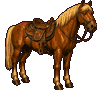
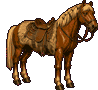
Point & click : tenues du lore de Skyrim, personnages et décor animés par sprites (héros en 4 temps, états repos/parole/marche, rivière, roues, mammouth, flammes, oiseaux, fumée, dragon à 4 poses)

diff --git a/js/pointclick/data/sheets.js b/js/pointclick/data/sheets.js
@@ -1,11 +1,30 @@
-/* Sprites (assets/pointclick/spr/<fichier>.png, déjà à la taille du jeu : ils se dessinent à l'échelle de perspective) et objets d'inventaire. */
+/* Sprites (assets/pointclick/spr/<fichier>.png, déjà à la taille du jeu : ils se dessinent à l'échelle de perspective) et objets d'inventaire.
+   ANIM : animation par images, choisie selon l'état du personnage (idle = repos, talk = parle, walk = se déplace). `fps` = images par seconde. */
+const f = (n, files) => files.forEach(x => (SPR[n + '.' + x] = n + '_' + x));
 export const SPR = {
-  'hero.side': 'hero_side', 'hero.stride': 'hero_stride', 'hero.front': 'hero_front',
-  'merchant': 'merchant', 'merchant.bucket': 'merchant_bucket',
-  'guard': 'guard', 'hen': 'hen', 'bucket': 'bucket', 'honey': 'honey',
-  'dragon.up': 'dragon_up', 'dragon.down': 'dragon_down',
-  'horse': 'horse', 'horse.ride': 'horse_ride', 'carrot': 'carrot', 'cheese': 'cheese',
+  'hero.front': 'hero_front', 'bucket': 'bucket', 'honey': 'honey', 'merchant': 'merchant', 'merchant.bucket': 'merchant_bucket',
+  'guard': 'guard', 'hen': 'hen', 'horse': 'horse', 'horse.ride': 'horse_ride', 'carrot': 'carrot', 'cheese': 'cheese',
+  'dragon.up': 'dragon_up', 'dragon.down': 'dragon_down', 'dragon.mid1': 'dragon_mid1', 'dragon.mid2': 'dragon_mid2',
+  'bird.1': 'bird_1', 'bird.2': 'bird_2', 'bird.3': 'bird_3', 'puff': 'puff',
   'giant': 'giant', 'giant.swing': 'giant_swing', 'nazim': 'nazim',
   'blind.pot': 'blind_pot', 'blind.sack': 'blind_sack', 'blind.hat': 'blind_hat', 'lit.pot': 'lit_pot', 'lit.sack': 'lit_sack', 'lit.hat': 'lit_hat'
 };
+f('hero', ['walkA', 'walkP', 'walkB', 'stand', 'talk', 'idle2']); f('merchant', ['idle2', 'talk1', 'talk2']); f('guard', ['idle2', 'talk', 'walkA', 'walkB']);
+f('hen', ['peck', 'walk']); f('horse', ['idle2', 'walkA', 'walkB']); f('giant', ['idle2', 'talk', 'walkA', 'walkB']); f('nazim', ['idle2', 'talk']);
+f('blind', ['pot2', 'sack2', 'hat2']); f('lit', ['pot2', 'sack2', 'hat2']);
+
+export const ANIM = {
+  'merchant': { idle: ['merchant', 'merchant.idle2'], talk: ['merchant.talk1', 'merchant.talk2', 'merchant'], fps: { idle: 0.7, talk: 6 } },
+  'guard': { idle: ['guard', 'guard.idle2'], talk: ['guard', 'guard.talk'], walk: ['guard.walkA', 'guard', 'guard.walkB', 'guard'], fps: { idle: 0.5, talk: 6, walk: 5 } },
+  'hen': { idle: ['hen', 'hen.peck'], walk: ['hen.walk', 'hen'], fps: { idle: 1.1, walk: 6 } },
+  'horse': { idle: ['horse', 'horse.idle2'], walk: ['horse.walkA', 'horse', 'horse.walkB', 'horse'], fps: { idle: 0.5, walk: 5 } },
+  'giant': { idle: ['giant', 'giant.idle2'], talk: ['giant.talk', 'giant'], walk: ['giant.walkA', 'giant', 'giant.walkB', 'giant'], fps: { idle: 0.45, talk: 6, walk: 3 } },
+  'nazim': { idle: ['nazim', 'nazim.idle2'], talk: ['nazim.talk', 'nazim'], fps: { idle: 0.5, talk: 6 } },
+  'blind.pot': { idle: ['blind.pot', 'blind.pot2'], fps: { idle: 1.6 } }, 'blind.sack': { idle: ['blind.sack', 'blind.sack2'], fps: { idle: 1.6 } }, 'blind.hat': { idle: ['blind.hat', 'blind.hat2'], fps: { idle: 1.6 } },
+  'lit.pot': { idle: ['lit.pot', 'lit.pot2'], walk: ['lit.pot', 'lit.pot2'], fps: { idle: 5, walk: 6 } },
+  'lit.sack': { idle: ['lit.sack', 'lit.sack2'], walk: ['lit.sack', 'lit.sack2'], fps: { idle: 5, walk: 6 } },
+  'lit.hat': { idle: ['lit.hat', 'lit.hat2'], walk: ['lit.hat', 'lit.hat2'], fps: { idle: 5, walk: 6 } }
+};
+/* le héros : marche en 4 temps, debout de profil, face (repos / parole) */
+export const HERO = { walk: ['hero.walkA', 'hero.walkP', 'hero.walkB', 'hero.walkP'], stand: 'hero.stand', idleFront: ['hero.front', 'hero.idle2'], talk: ['hero.front', 'hero.talk'] };
 export const ITEMS = { bucket: { spr: 'bucket' }, honey: { spr: 'honey' }, carrot: { spr: 'carrot' }, cheese: { spr: 'cheese' } };

diff --git a/js/pointclick/scenes/rue.js b/js/pointclick/scenes/rue.js
@@ -21,13 +21,11 @@ export default {
   /* décor vivant : dragon qui vole, oiseaux, rivière, roue du moulin, mammouth qui respire, fleurs et herbes dans le vent */
   ambient: [
     { type: 'dragon', y: 8, period: 36, offset: 8, scale: 0.95, drop: 8 },
-    { type: 'birds', n: 5, y0: 16, y1: 80, speed: 12, seed: 4 },
-    { type: 'water', poly: [[395, 198], [420, 190], [450, 192], [470, 198], [470, 218], [450, 226], [420, 228], [400, 218]], amp: 1.4, seed: 2 },
-    { type: 'water', poly: [[330, 158], [352, 156], [385, 158], [392, 166], [360, 168], [335, 166]], amp: 1.0, seed: 9, glints: 8 },
-    { type: 'wheel', cx: 466, cy: 152, r: 12, speed: 0.9 },
-    { type: 'bob', rect: [388, 130, 418, 160], amp: 0.04, speed: 1.2 },
-    { type: 'sway', rect: [380, 226, 480, 268], amp: 1.8, speed: 1.6 },
-    { type: 'sway', rect: [270, 238, 380, 268], amp: 1.2, speed: 1.3, phase: 2 }
+    { type: 'flock', n: 5, y0: 16, y1: 80, speed: 12, seed: 4 },
+    { type: 'frames', id: 'rue_river1', fps: 2.2 }, { type: 'frames', id: 'rue_river2', fps: 2, offset: 0.4 },
+    { type: 'frames', id: 'rue_wheel', fps: 1.4, seq: [0, 1, 2, -1] },
+    { type: 'frames', id: 'rue_mammoth', fps: 0.7, seq: [-1, 0, 0, -1, 1, 1, 2, -1] },
+    { type: 'frames', id: 'rue_flowers', fps: 1.3 }, { type: 'frames', id: 'rue_grass', fps: 1.1, offset: 0.7 }
   ],
   ents: [
     { id: 'merchant', spr: 'merchant', x: 72, y: 214, hot: true, hit: [48, 160, 100, 190], at: [136, 238], z: -50 },

diff --git a/js/pointclick/scenes/mill.js b/js/pointclick/scenes/mill.js
@@ -21,12 +21,11 @@ export default {
   ],
   ambient: [
     { type: 'dragon', y: 10, period: 40, offset: 14, scale: 0.9, drop: 6 },
-    { type: 'birds', n: 4, y0: 20, y1: 90, speed: 11, seed: 8 },
-    { type: 'wheel', cx: 162, cy: 150, r: 30, speed: 0.8 },
-    { type: 'water', poly: [[300, 190], [345, 182], [420, 180], [480, 192], [480, 228], [440, 224], [395, 214], [345, 206], [310, 200]], amp: 1.4, seed: 6, glints: 16 },
-    { type: 'smoke', x: 103, y: 48, h: 30, wind: 12, n: 9 },
-    { type: 'sway', rect: [0, 190, 116, 214], amp: 1.0, speed: 1.4 },
-    { type: 'sway', rect: [100, 236, 300, 268], amp: 1.0, speed: 1.2, phase: 1 }
+    { type: 'flock', n: 4, y0: 20, y1: 90, speed: 11, seed: 8 },
+    { type: 'frames', id: 'mill_wheel', fps: 1.6, seq: [0, 1, 2, -1] },
+    { type: 'frames', id: 'mill_river', fps: 2.2 },
+    { type: 'puffs', x: 103, y: 50, h: 32, wind: 12, n: 7 },
+    { type: 'frames', id: 'mill_garden', fps: 1.2 }, { type: 'frames', id: 'mill_grass', fps: 1.1, offset: 0.8 }
   ],
   ents: [
     { id: 'horse', spr: 'horse', x: 252, y: 226, hot: true, at: [214, 236] },

diff --git a/js/pointclick/scenes/meadow.js b/js/pointclick/scenes/meadow.js
@@ -18,12 +18,11 @@ export default {
   ],
   ambient: [
     { type: 'dragon', y: 12, period: 46, offset: 22, scale: 0.9, drop: 6 },
-    { type: 'birds', n: 4, y0: 14, y1: 80, speed: 12, seed: 11 },
+    { type: 'flock', n: 4, y0: 14, y1: 80, speed: 12, seed: 11 },
     { type: 'orbit', spr: 'bucket', id: 'satellite', scale: 0.4, y: 30, arc: 10, period: 64, offset: 30, spin: 1.1 },
-    { type: 'smoke', x: 139, y: 214, h: 42, wind: 8, n: 11 },
-    { type: 'glow', x: 139, y: 222, r: 26 },
-    { type: 'sway', rect: [0, 236, 480, 268], amp: 1.1, speed: 1.3 },
-    { type: 'sway', rect: [230, 140, 480, 184], amp: 0.8, speed: 1.0, phase: 2 }
+    { type: 'frames', id: 'meadow_fire', fps: 7, seq: [0, 1, 2, 1] },
+    { type: 'puffs', x: 140, y: 212, h: 44, wind: 8, n: 8 },
+    { type: 'frames', id: 'meadow_grass', fps: 1.1 }
   ],
   ents: [
     { id: 'giant', spr: 'giant', x: GIANT[0], y: GIANT[1], scale: 0.78, hot: true, at: [GIANT[0] - 52, GIANT[1] + 8] },

diff --git a/easter eggs/pointclick/ETUDE.md b/easter eggs/pointclick/ETUDE.md
@@ -387,3 +387,12 @@ Chaque scène atteinte est mémorisée (hors sauvegarde, elle survit à « Nouve
 par chapitre atteint : il repart au début de la scène avec l'état attendu (inventaire et drapeaux). Ajouter une scène : créer `scenes/<id>.js`,
 ajouter une ligne dans `scenes/index.js` (`CHAPTERS`, avec son état d'entrée) et les clés `ch.<id>` dans `lang/fr.js` et `lang/en.js`.
 La sauvegarde automatique (scène, drapeaux, inventaire, position) reste en place pour « Continuer ».
+
+## Sprites animés et tenues du lore (état final de cette étape)
+
+- **Tenues** : héros (casque de fer à cornes, plastron clouté, manteau de fourrure, bouclier), marchand nordique (tunique à col de fourrure, tablier, clés), garde de Blancherive (casque de fer, cotte de mailles, tabard au cheval blanc), cheval sellé. `tools/gen_anim.sh`.
+- **Personnages animés par images** (`data/sheets.js`, table `ANIM`, état repos / parole / marche choisi par `Game.frame()`) : héros (marche en 4 temps, face, parole), marchand,
+  garde, poule, cheval, géant, Nazim, aveugles (tâtonnement) et leur danse une fois éclairés. Les images d'un personnage partagent l'échelle et sont recentrées sur leur centre de masse.
+- **Décor animé par images** (`tools/gen_regions.py` -> `assets/pointclick/anim/`, type d'ambiance `frames`) : rivières, roues de moulin, mammouth, flammes, herbes et fleurs.
+  Oiseaux (`flock`), fumée (`puffs`) et dragon à 4 poses d'ailes sont aussi des sprites (`tools/gen_anim2.sh`). Les anciens effets par déformation de pixels (water, wheel, sway, bob) ne sont plus utilisés.
+- Correctif du détourage : les trous du masque (peau proche du fond magenta) sont comblés, sinon des « nervures » noires apparaissaient.
